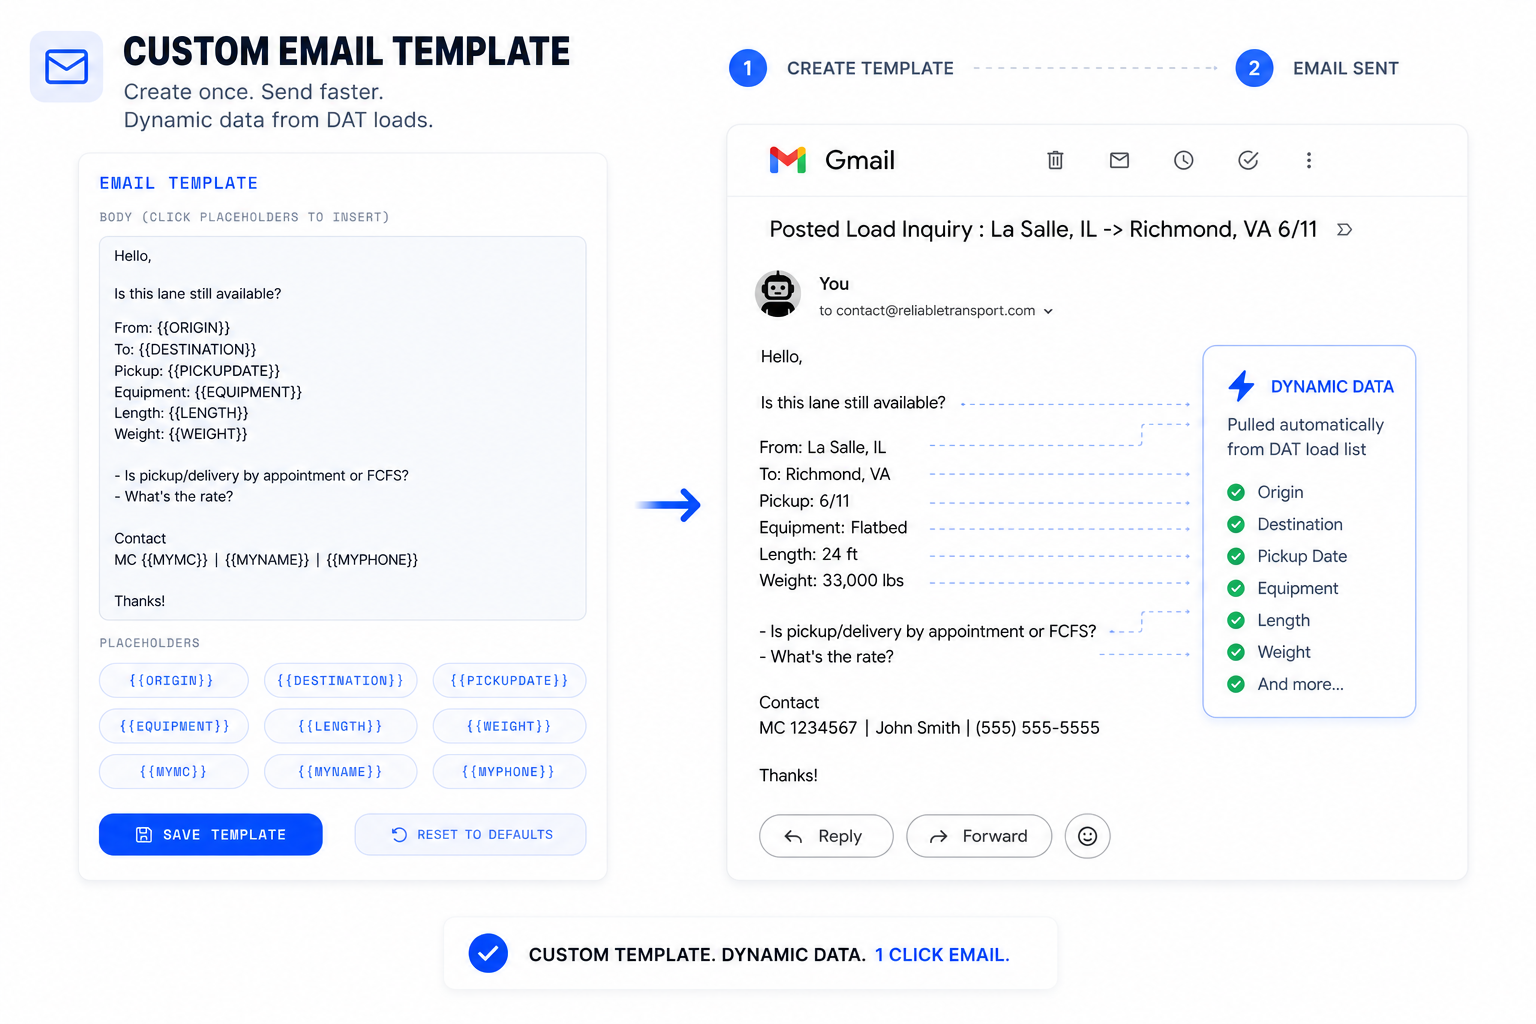
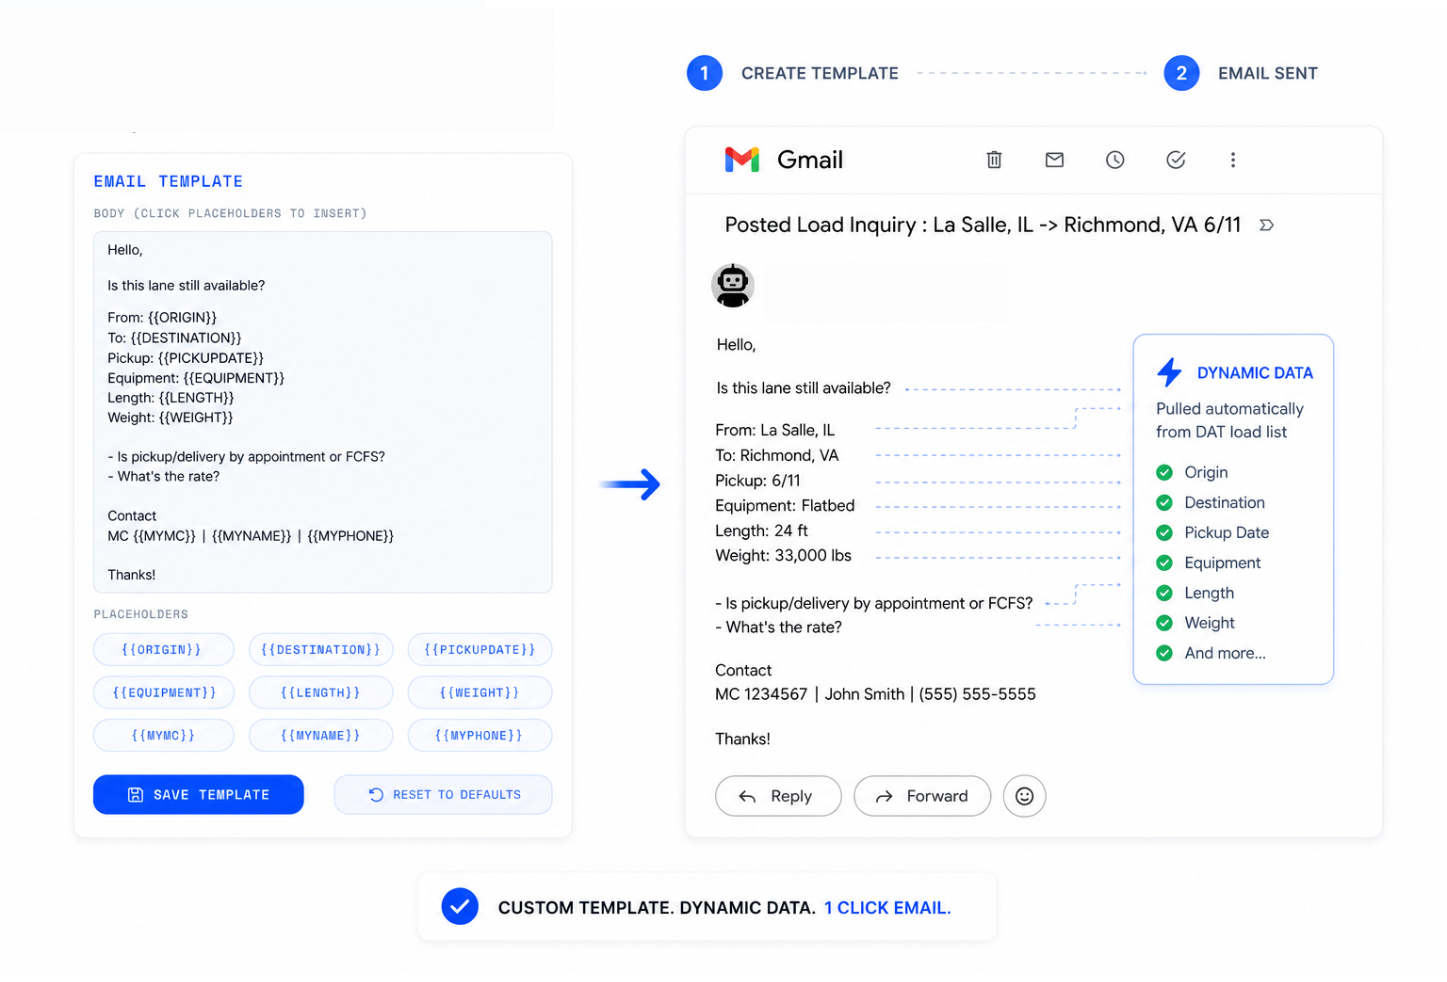
clean up

diff --git a/src/App.tsx b/src/App.tsx
@@ -957,6 +957,14 @@ function BeforeAfter() {
   );
 }
 
+// Directional slide + fade for the feature media. `dir` is +1 for "next"
+// (incoming slides in from the right) and -1 for "previous".
+const featureSlide = {
+  enter: (dir: number) => ({ opacity: 0, x: dir > 0 ? 64 : -64, scale: 0.97 }),
+  center: { opacity: 1, x: 0, scale: 1 },
+  exit: (dir: number) => ({ opacity: 0, x: dir > 0 ? -64 : 64, scale: 0.97 }),
+};
+
 function Features() {
   const items: FeatureItem[] = [
     {
@@ -1009,6 +1017,8 @@ function Features() {
 
   const n = items.length;
   const [active, setActive] = useState(0);
+  // Slide direction for the media transition (+1 next, -1 previous).
+  const [dir, setDir] = useState(1);
   // Auto-advance runs until the user interacts; then it stops for good.
   const [engaged, setEngaged] = useState(false);
   const stripRef = useRef<HTMLDivElement>(null);
@@ -1017,6 +1027,8 @@ function Features() {
   // Move to feature `i` (wraps) and scroll it to the centre of the strip.
   const goTo = (i: number) => {
     const ni = ((i % n) + n) % n;
+    // Use the pre-wrap index so wrap-around (last→first) still reads as "next".
+    setDir(i > active ? 1 : i < active ? -1 : dir);
     setActive(ni);
     const strip = stripRef.current;
     const el = strip?.children[ni] as HTMLElement | undefined;
@@ -1069,7 +1081,19 @@ function Features() {
           onMouseEnter={() => setEngaged(true)}
           onPointerDown={() => setEngaged(true)}
         >
-          <FeatureVideo key={cur.slug} slug={cur.slug} title={cur.title} />
+          <AnimatePresence mode="wait" custom={dir} initial={false}>
+            <motion.div
+              key={cur.slug}
+              custom={dir}
+              variants={featureSlide}
+              initial="enter"
+              animate="center"
+              exit="exit"
+              transition={{ duration: 0.38, ease: [0.22, 1, 0.36, 1] }}
+            >
+              <FeatureVideo slug={cur.slug} title={cur.title} />
+            </motion.div>
+          </AnimatePresence>
         </div>
 
         {/* Feature selector — manual scroll strip below the video.
